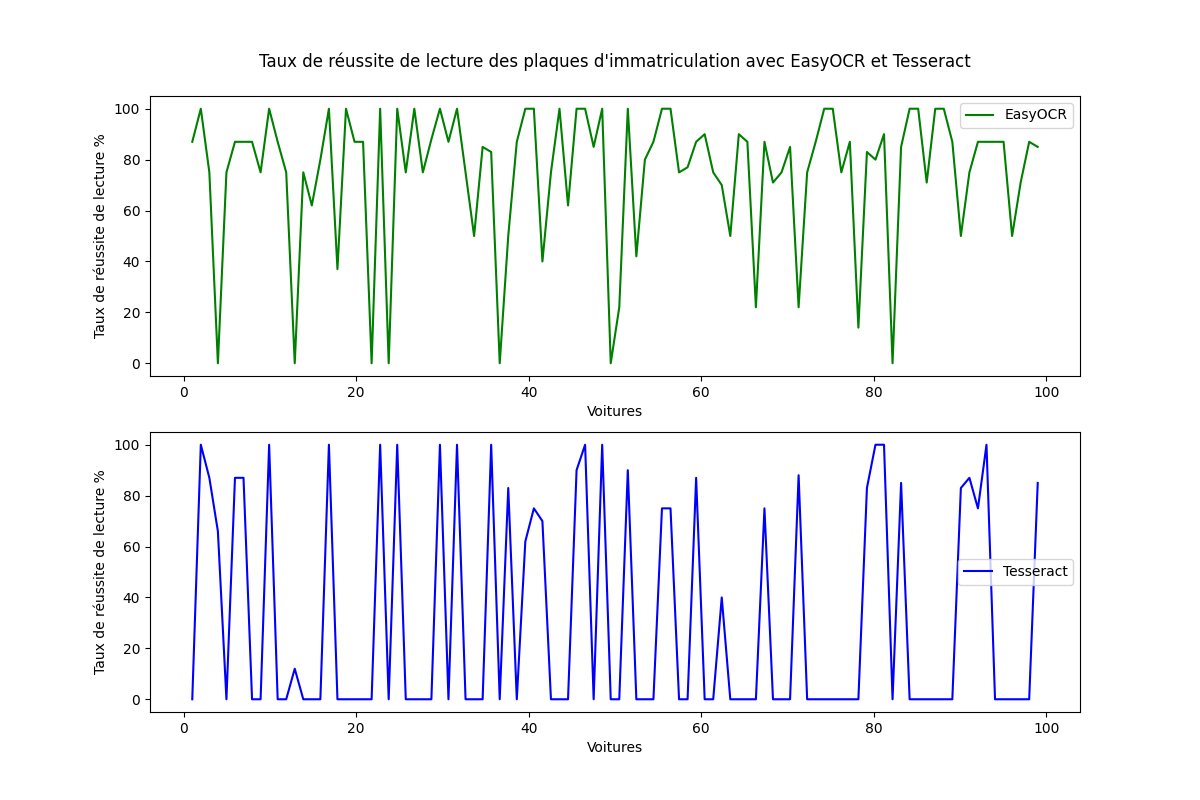
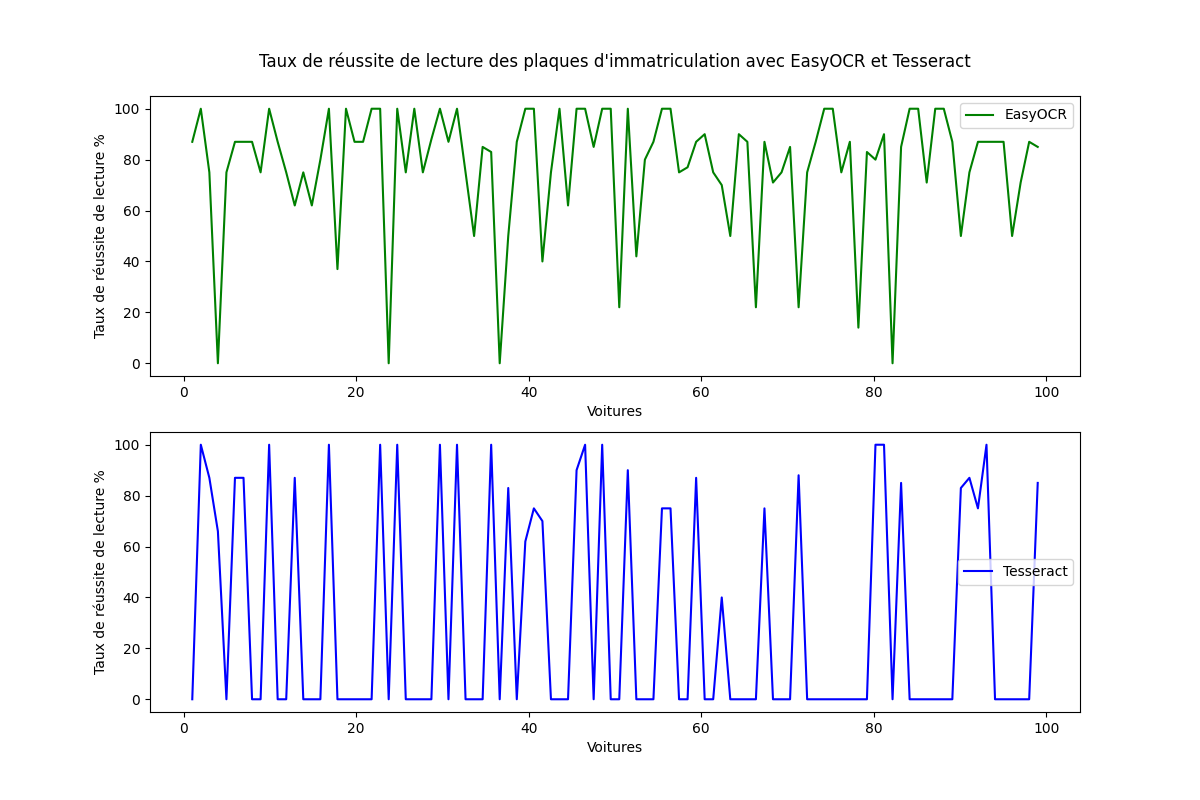
LAPI - Version finale

diff --git a/testes.py b/testes.py
@@ -36,14 +36,26 @@ def render_i_number_plates (i):
 # Ajoute des dossier (list) à notre fichier data.json
 def addXToJson(chemin, x): 
     
-    with open(chemin, "r",) as f:
+    with open(chemin, "r") as f:
         data = json.load(f)
 
     data.append(x)
 
-    with open(chemin, "w",) as f:
+    with open(chemin, "w") as f:
         json.dump(data, f, indent=4)
-       
+
+def clearListJson (chemin) :
+    data = []
+    with open(chemin, "w") as f:
+        json.dump(data, f, indent=4)  
+        
+    with open(chemin, "r") as f:
+        data = json.load(f)
+    
+    data = []
+    
+    with open(chemin, "w") as f:
+        json.dump(data, f, indent=4)      
        
 #compare deux chaine de caractère et renvoi le taux de compatibilité de dest par rapport à str en % 
 def compareStr (src, dest):

diff --git a/lapi_img_v1.py b/lapi_img_v1.py
@@ -15,8 +15,8 @@ def extract_num(img_filename):
     
     #Image en gris
     gray=cv2.cvtColor(img,cv2.COLOR_BGR2GRAY)
-    nplate=cascade.detectMultiScale(gray,1.1,4)
     
+    nplate=cascade.detectMultiScale(gray,1.1,4)
     #crop portion
     for (x,y,w,h) in nplate:
         wT,hT,cT=img.shape
@@ -61,4 +61,4 @@ def extract_num(img_filename):
     
     
 
-extract_num("Ressources/voitures/car006.jpg")
+extract_num("Ressources/voitures/car085.jpg")

diff --git a/lapi_v1.py b/lapi_v1.py
@@ -53,6 +53,7 @@ data1 = r"C:\Users\HP\OneDrive\Bureau\LAPI\Ressources\json\data1.json"
 
 def main () :
     start = time.time()
+    testes.clearListJson(data1)
     for i in range(0,testes.nbFileDir(voitures)):
         img_filename = f"Ressources/voitures/{testes.render_i_cars(i)}"
         print("Traitement de la voiture : " + testes.render_i_cars(i))

diff --git a/lapi_v2.py b/lapi_v2.py
@@ -55,6 +55,7 @@ data2 = r"C:\Users\HP\OneDrive\Bureau\LAPI\Ressources\json\data2.json"
 
 def main () :
     start = time.time()
+    testes.clearListJson(data2)
     for i in range(0,testes.nbFileDir(voitures)):
         img_filename = f"Ressources/voitures/{testes.render_i_cars(i)}"
         print("Traitement de la voiture : " + testes.render_i_cars(i))

diff --git a/readme.md b/readme.md
@@ -1,13 +1,12 @@
 # Mohand Lounis BENSEKHRI
 # N° étudiant: 11710457
 # Master 1 Informatique 
-# Institut Galilée 
-# Université Sorbonne Paris Nord
-# 25/03/2022
+# Université Sorbonne Paris Nord - Institut Galilée 
+# 28/03/2022
 
 # Initiation à la recherche
 # LAPI "Lecture automatique des plaques d’immatriculation"
-La reconnaissance automatisée des plaques minéralogiques également appelée LAPI "Lecture automatique des plaques d’immatriculation" ou en anglais Automatic number-plate recognition (ANPR) est une technologie destinée à identifier les plaques d'immatriculation de véhicules via l'utilisation de techniques de reconnaissance optique de caractères.
+La reconnaissance automatisée des plaques minéralogiques également appelée LAPI "Lecture automatique des plaques d’immatriculation" ou en anglais Automatic number-plate recognition (ANPR) est une technologie destinée à identifier les plaques d'immatriculation de véhicules via l'utilisation de techniques de reconnaissance optique de caractères (OCR).
 
 # Pré-requis
     * python 3.9.7
@@ -20,3 +19,44 @@ La reconnaissance automatisée des plaques minéralogiques également appelée L
     * pathlib
     * os
     * Bio
+    * numpy
+    * time
+
+# Contenu du répertoire LAPI
+    Ressources
+        json : 
+            dossier qui contient l'ensemble des taux de réussite de lecture dans les fichier dataX | le fichier number_plate contient la liste de toutes les places des voitures utilisées.
+        numberPlate :
+            EasyOCR:
+                Contient les images que l'on créer lors de lancement de " lapi_img_v1.py "
+            Tesseract:
+                Contient les images que l'on créer lors de lancement de " lapi_img_v2.py "
+        plt :
+            Contient l'ensemble des diagramme et graphiques que l'ont créer lors de lancement de " vdd.py "
+        voitures : 
+            Contient les 100 images des véhicules qui sont utilisées lors des testes.
+        haarcascade_russian_plate_number.xml: 
+            fichier obligatoire pour la découpe de la plaque d'immatriculation
+        number_plate.txt :
+            Contient l'ensemble des plaque des matriculation en text contrairement aux fichier json où elles sont sous forme d'une liste
+    
+    lapi_img_v1.py : 
+        fichier qui permet de visualiser la découpe et la lecture de la plaque d'immatriculation pour un véhicule choisie - EasyOCR
+    
+    lapi_img_v2.py :
+        fichier qui permet de visualiser la découpe et la lecture de la plaque d'immatriculation pour un véhicule choisie - Tesseract
+    
+    lapi_v1.py : 
+        fichier qui permet de lancer l'expérience pour les 100 véhicules - EasyOCR
+    
+    lapi_v2.py :
+        fichier qui permet de lancer l'expérience pour les 100 véhicules - Tesseract
+
+    testes.py : 
+        fichier qui contient l'ensemble des fonction de test
+    
+    vdd.py :
+        fichier qui permet de modéliser les résultats en diagramme et graphiques
+ 
+# Exécution
+    python monFichier.py
